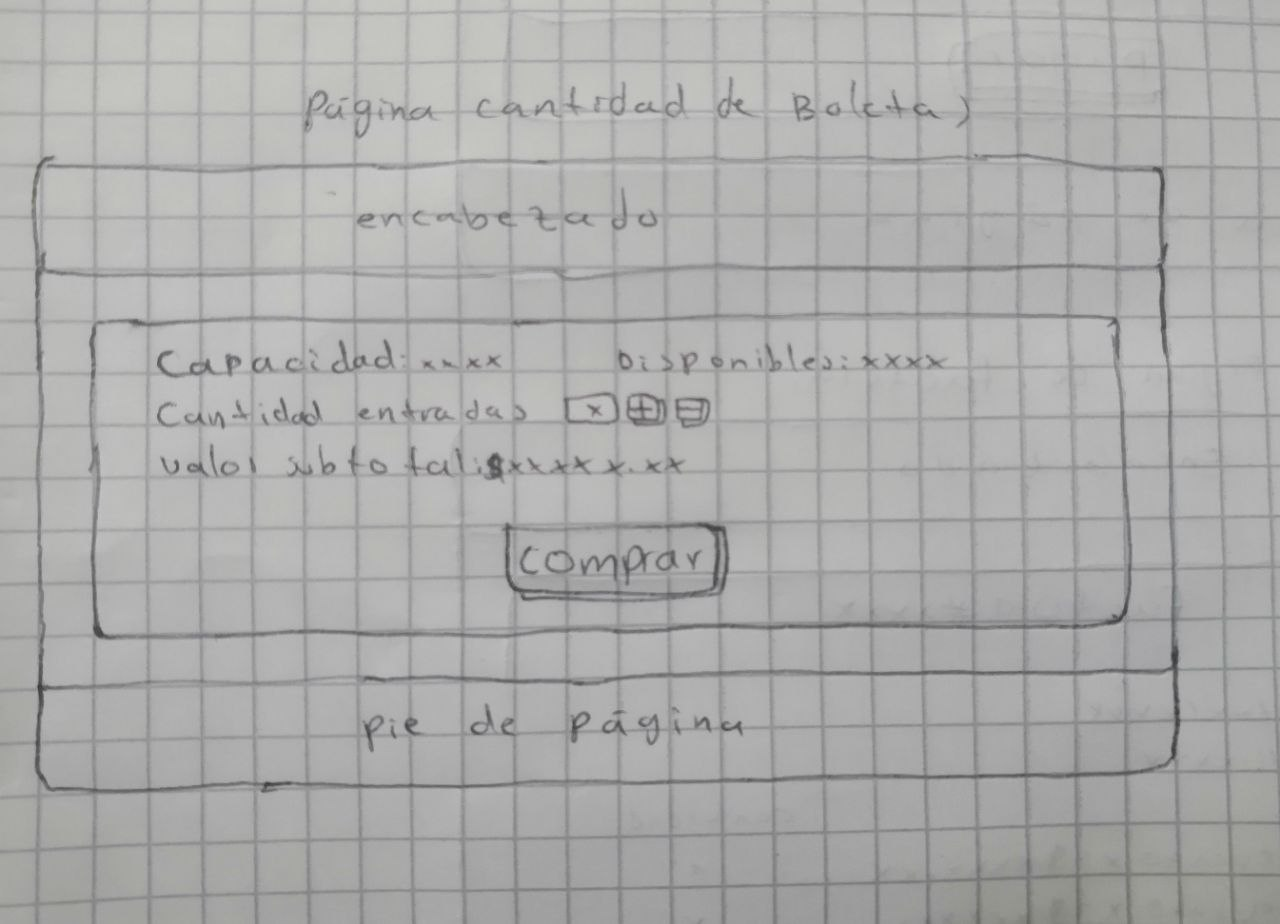
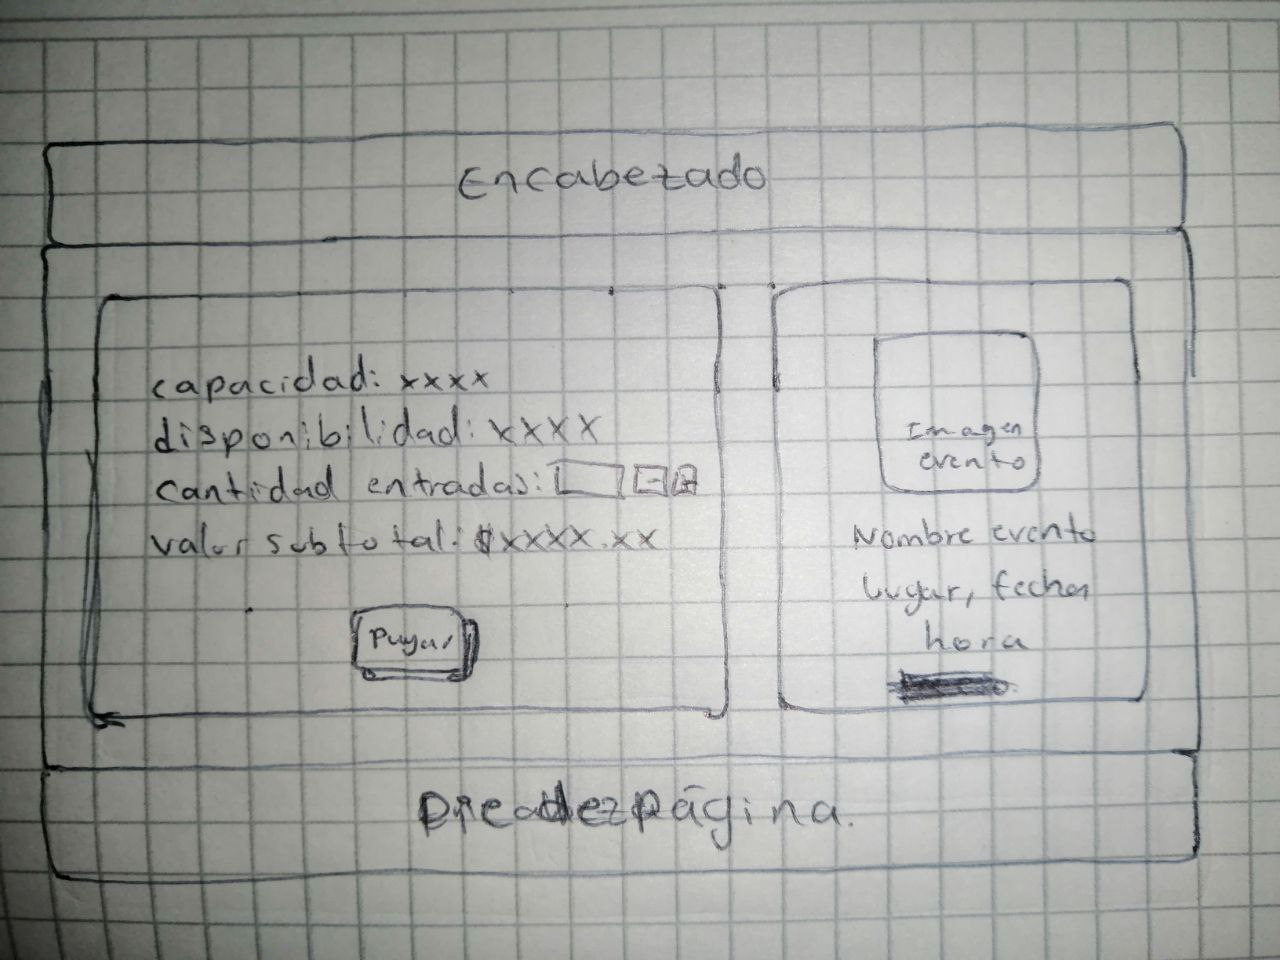
Feature: capa de presentación completada. Fix: mockups

diff --git a/presentacion/estilos.css b/presentacion/estilos.css
@@ -1,0 +1,27 @@
+html, body {
+    height: 100%;
+    margin: 0;
+}
+
+body {
+    display: flex;
+    flex-direction: column;
+}
+
+.container {
+    flex: 1;
+}
+
+footer {
+    position: relative;
+    bottom: 0; 
+    width: 100%; 
+}
+
+.inputbox i {
+    position: absolute;
+    top: 13px;
+    right: 8px;
+    transition: 0.5s;
+    color: #3F51B5
+}

diff --git a/presentacion/pago.php b/presentacion/pago.php
@@ -1,0 +1,108 @@
+<!doctype html>
+<html lang="en">
+
+<head>
+    <meta charset="utf-8">
+    <meta name="viewport" content="width=device-width, initial-scale=1">
+    <title>Blue Ticket</title>
+    <link href="https://cdn.jsdelivr.net/npm/bootstrap@5.3.3/dist/css/bootstrap.min.css" rel="stylesheet" integrity="sha384-QWTKZyjpPEjISv5WaRU9OFeRpok6YctnYmDr5pNlyT2bRjXh0JMhjY6hW+ALEwIH" crossorigin="anonymous">
+</head>
+
+<body>
+    <?php include 'navbar.php' ?>
+
+    <form class="container mt-4">
+        <div class="row g-3">
+            <div class="col-md-4">
+                <input type="text" class="form-control" placeholder="Nombre" required>
+            </div>
+            <div class="col-md-4">
+                <input type="text" class="form-control" placeholder="Apellido" required>
+            </div>
+            <div class="col-md-4">
+                <input type="text" class="form-control" placeholder="Documento" required>
+            </div>
+        </div>
+    </form>
+    <form class="container mt-4">
+        <div class="row g-3">
+            <div class="col-md-4">
+                <input type="text" class="form-control" placeholder="Nombre" required>
+            </div>
+            <div class="col-md-4">
+                <input type="text" class="form-control" placeholder="Apellido" required>
+            </div>
+            <div class="col-md-4">
+                <input type="text" class="form-control" placeholder="Documento" required>
+            </div>
+        </div>
+    </form>
+    <form class="container mt-4">
+        <div class="row g-3">
+            <div class="col-md-4">
+                <input type="text" class="form-control" placeholder="Nombre" required>
+            </div>
+            <div class="col-md-4">
+                <input type="text" class="form-control" placeholder="Apellido" required>
+            </div>
+            <div class="col-md-4">
+                <input type="text" class="form-control" placeholder="Documento" required>
+            </div>
+        </div>
+    </form>
+
+    <div class="container mt-5 px-5">
+        <div class="row">
+            <div class="col-md-8">
+                <div class="card p-3">
+                    <h6 class="text-uppercase">Detalles del pago</h6>
+                    <div class="inputbox mt-3"> <input type="text" name="name" class="form-control" placeholder="Nombre del titular" required="required">
+                    </div>
+                    <div class="row">
+                        <div class="col-md-6">
+                            <div class="inputbox mt-3 mr-2">
+                                <input type="text" name="name" class="form-control" placeholder="Numero de la tarjeta" required="required">
+                                <i class="fa fa-credit-card"></i>
+                            </div>
+                        </div>
+                        <div class="col-md-6">
+                            <div class="d-flex flex-row">
+                                <div class="inputbox mt-3 mr-2">
+                                    <input type="text" name="name" class="form-control" placeholder="Expiración" required="required">
+                                </div>
+                                <div class="inputbox mt-3 mr-2">
+                                    <input type="text" name="name" class="form-control" placeholder="CVC" required="required">
+                                </div>
+                            </div>
+                        </div>
+                    </div>
+                </div>
+
+                <div class="mt-4 mb-4 d-flex justify-content-between">
+                    <span>Volver</span>
+                    <button class="btn btn-success px-3" onclick="location.href='factura.php'">Pagar</button>
+                </div>
+            </div>
+
+            <div class="col-md-4">
+                <div class="card card-blue p-3 text-black mb-3">
+                <img src="https://via.placeholder.com/100" alt="Descripción de la imagen" class="img-fluid" style="max-width: 100px; height: auto;">
+                    <span>Evento</span>
+                    <div class="d-flex flex-row align-items-end mb-3">
+                        <h1 class="mb-0 yellow">$549</h1> <span>.99</span>
+                    </div>
+                    <span>Enjoy all the features and perk after you complete the payment</span>
+                    <a href="#" class="yellow decoration">Know all the features</a>
+                    <div class="hightlight">
+                        <span>100% Guaranteed support and update for the next 5 years.</span>
+                    </div>
+                </div>
+            </div>
+        </div>
+    </div>
+
+    <?php include 'footer.php' ?>
+
+</body>
+
+</html>

diff --git a/presentacion/compra.php b/presentacion/compra.php
@@ -9,40 +9,48 @@
 </head>
 
 <body>
+
     <?php include 'navbar.php' ?>
 
     <div class="container mt-4">
-        <ul class="list-unstyled text-center">
-            <li>capacidad: xxxx</li>
-            <li class="d-flex justify-content-center align-items-center">
-            <span>Cantidad de entradas: </span>
-            <div class="d-flex align-items-center">
-                <input type="number" id="contador" value="0" class="form-control me-2" style="width: 80px;" readonly>
-                <button class="btn btn-danger" onclick="disminuir()">-</button>
-                <button class="btn btn-success ms-2" onclick="aumentar()">+</button>
+        <div class="row">
+            <div class="col-md-8">
+                <ul class="list-unstyled text-center">
+                    <li>Capacidad: xxxx</li>
+                    <li class="d-flex justify-content-center align-items-center">
+                        <span>Cantidad de entradas: </span>
+                        <div class="d-flex align-items-center">
+                            <input type="number" id="contador" value="0" class="form-control me-2" style="width: 80px;" min="0">
+                        </div>
+                    </li>
+                    <li>Valor subtotal: $xxxx.xx</li>
+                </ul>
+                <div class="d-flex justify-content-center mt-3">
+                    <button class="btn btn-primary" onclick="location.href='pago.php'">Pagar</button>
+                </div>
             </div>
-        </li>
-            <li>Valor subtotal: $xxxx.xx</li>
-        </ul>
-    </div>
 
-    <div class="container mt-4">
-        <!-- Primera Vista -->
-        <div id="vista1">
-            <h2>Selecciona una opción</h2>
-            <button class="btn btn-primary" onclick="irAVista2()">Opción 1</button>
-            <button class="btn btn-secondary" onclick="irAVista2()">Opción 2</button>
-        </div>
-
-        <!-- Segunda Vista -->
-        <div id="vista2" style="display: none;">
-            <h2>Vista 2</h2>
-            <p>Contenido adicional para la opción seleccionada.</p>
-            <button class="btn btn-secondary" onclick="volverAVista1()">Volver</button>
+            <div class="col-md-4">
+                <div class="row align-items-center">
+                    <div class="col-md-4 mb-4">
+                        <img src="https://via.placeholder.com/100" alt="Descripción de la imagen" class="img-fluid" style="max-width: 100px; height: auto;">
+                    </div>
+                    <div class="col-md-8 mb-4">
+                        <h2>Evento</h2>
+                        <p>
+                        <ul>
+                            <li>Nombre evento</li>
+                            <li>Lugar, fecha, hora, </li>
+                        </ul>
+                        </p>
+                    </div>
+                </div>
+            </div>
         </div>
     </div>
 
     <?php include 'footer.php' ?>
+
 </body>
 
 </html>

diff --git a/presentacion/factura.php b/presentacion/factura.php
@@ -1,0 +1,73 @@
+<!doctype html>
+<html lang="en">
+
+<head>
+    <meta charset="utf-8">
+    <meta name="viewport" content="width=device-width, initial-scale=1">
+    <title>Blue Ticket</title>
+    <link href="https://cdn.jsdelivr.net/npm/bootstrap@5.3.3/dist/css/bootstrap.min.css" rel="stylesheet" integrity="sha384-QWTKZyjpPEjISv5WaRU9OFeRpok6YctnYmDr5pNlyT2bRjXh0JMhjY6hW+ALEwIH" crossorigin="anonymous">
+</head>
+
+<body>
+    <?php include 'navbar.php' ?>
+
+    <div class="container mt-5">
+        <div class="invoice-header">
+            <h1>Factura</h1>
+            <p>Fecha: <strong id="invoice-date">2024-10-11</strong></p>
+            <p>Nombre del Comprador: <strong id="buyer-name">Juan Pérez</strong></p>
+        </div>
+
+        <div class="invoice-details">
+            <table class="table table-bordered">
+                <thead>
+                    <tr>
+                        <th>Producto</th>
+                        <th>Cantidad</th>
+                        <th>Precio</th>
+                        <th>Subtotal</th>
+                    </tr>
+                </thead>
+                <tbody>
+                    <tr>
+                        <td>Producto A</td>
+                        <td>2</td>
+                        <td>$50.00</td>
+                        <td>$100.00</td>
+                    </tr>
+                    <tr>
+                        <td>Producto B</td>
+                        <td>1</td>
+                        <td>$30.00</td>
+                        <td>$30.00</td>
+                    </tr>
+                    <tr>
+                        <td>Producto C</td>
+                        <td>3</td>
+                        <td>$20.00</td>
+                        <td>$60.00</td>
+                    </tr>
+                </tbody>
+                <tfoot>
+                    <tr>
+                        <td colspan="3" class="text-right">Subtotal:</td>
+                        <td>$190.00</td>
+                    </tr>
+                    <tr>
+                        <td colspan="3" class="text-right">IVA (19%):</td>
+                        <td>$36.10</td>
+                    </tr>
+                    <tr class="total">
+                        <td colspan="3" class="text-right">Total:</td>
+                        <td>$226.10</td>
+                    </tr>
+                </tfoot>
+            </table>
+        </div>
+    </div>
+
+    <?php include 'footer.php' ?>
+
+</body>
+
+</html>
